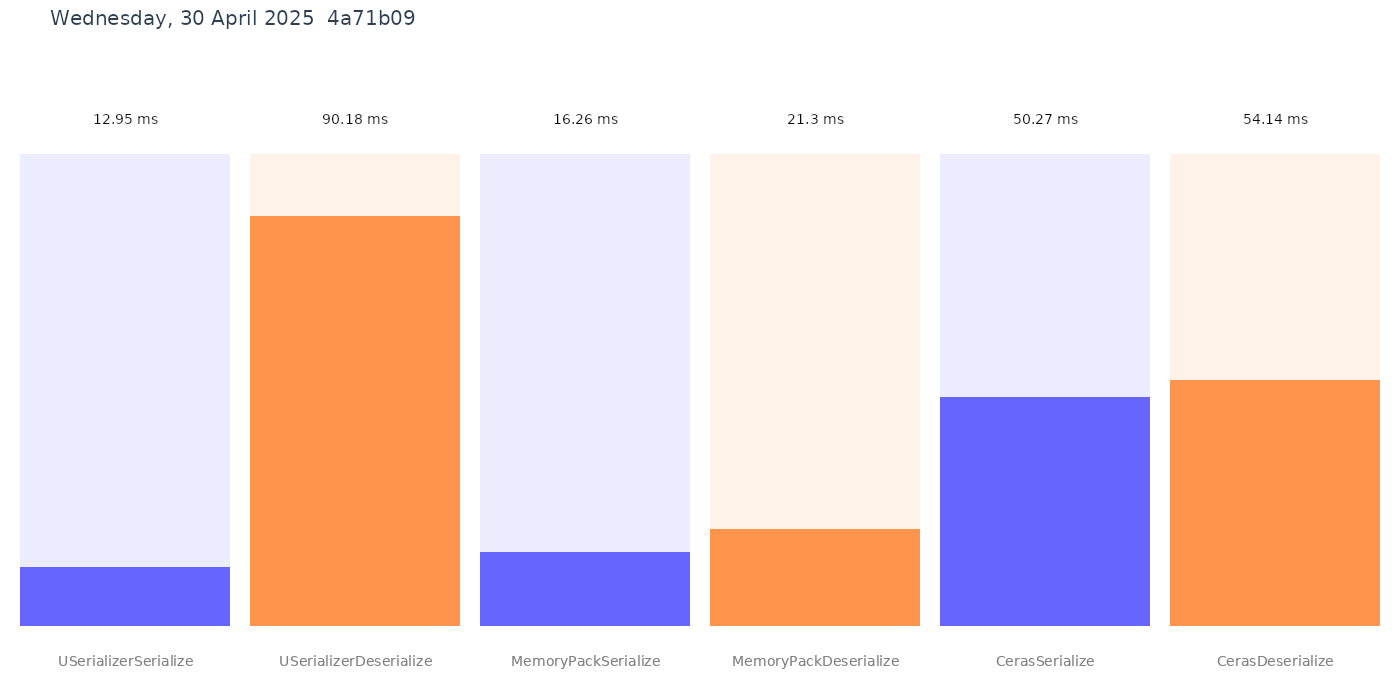
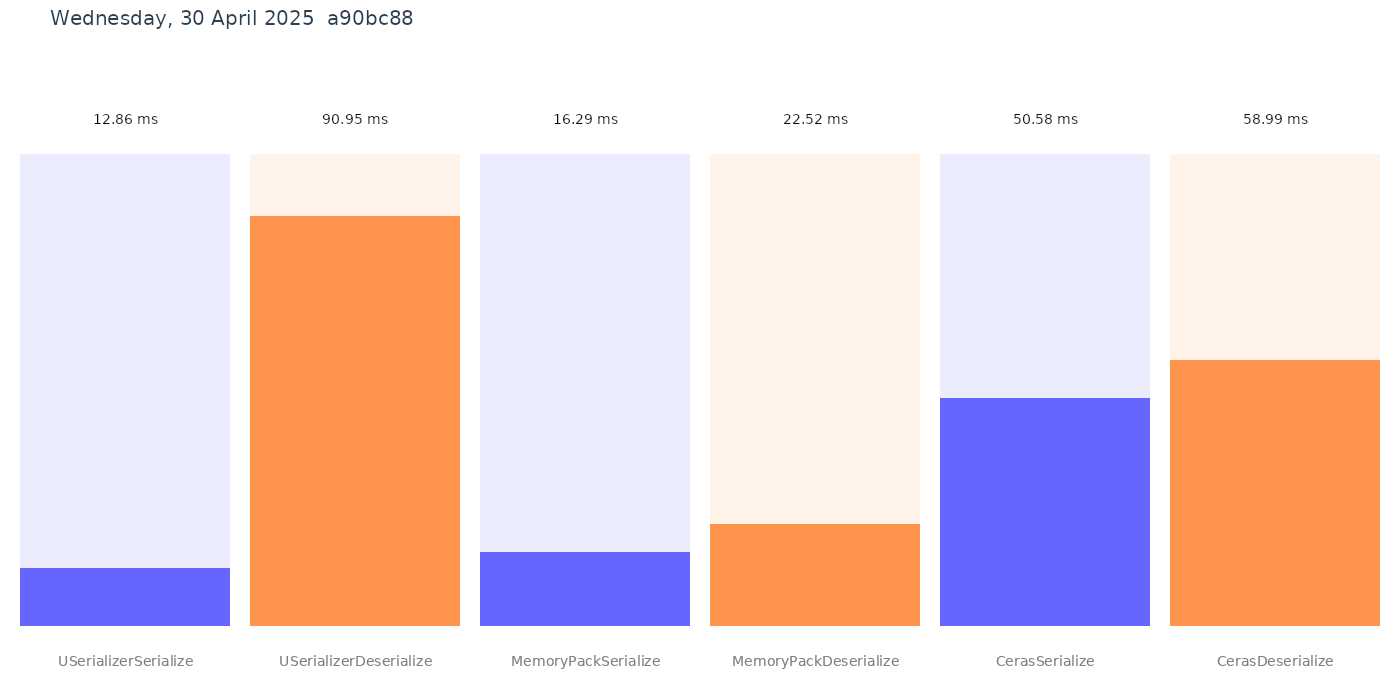
deploy: a90bc881149ebb13b3e9f74855de4cfde0bfcf1a

diff --git a/performance.md b/performance.md
@@ -10,11 +10,11 @@ Job=ShortRun  IterationCount=3  LaunchCount=1
 WarmupCount=3  
 
 ```
-|                 Method |     Mean |     Error |   StdDev |
-|----------------------- |---------:|----------:|---------:|
-|   USerializerSerialize | 12.95 ms |  2.709 ms | 0.148 ms |
-| USerializerDeserialize | 90.18 ms | 56.067 ms | 3.073 ms |
-|    MemoryPackSerialize | 16.26 ms |  0.523 ms | 0.029 ms |
-|  MemoryPackDeserialize | 21.30 ms |  1.165 ms | 0.064 ms |
-|         CerasSerialize | 50.27 ms |  1.348 ms | 0.074 ms |
-|       CerasDeserialize | 54.14 ms |  1.101 ms | 0.060 ms |
+|                 Method |     Mean |    Error |   StdDev |
+|----------------------- |---------:|---------:|---------:|
+|   USerializerSerialize | 12.86 ms | 2.242 ms | 0.123 ms |
+| USerializerDeserialize | 90.95 ms | 8.619 ms | 0.472 ms |
+|    MemoryPackSerialize | 16.29 ms | 0.040 ms | 0.002 ms |
+|  MemoryPackDeserialize | 22.52 ms | 0.788 ms | 0.043 ms |
+|         CerasSerialize | 50.58 ms | 5.387 ms | 0.295 ms |
+|       CerasDeserialize | 58.99 ms | 1.487 ms | 0.082 ms |
